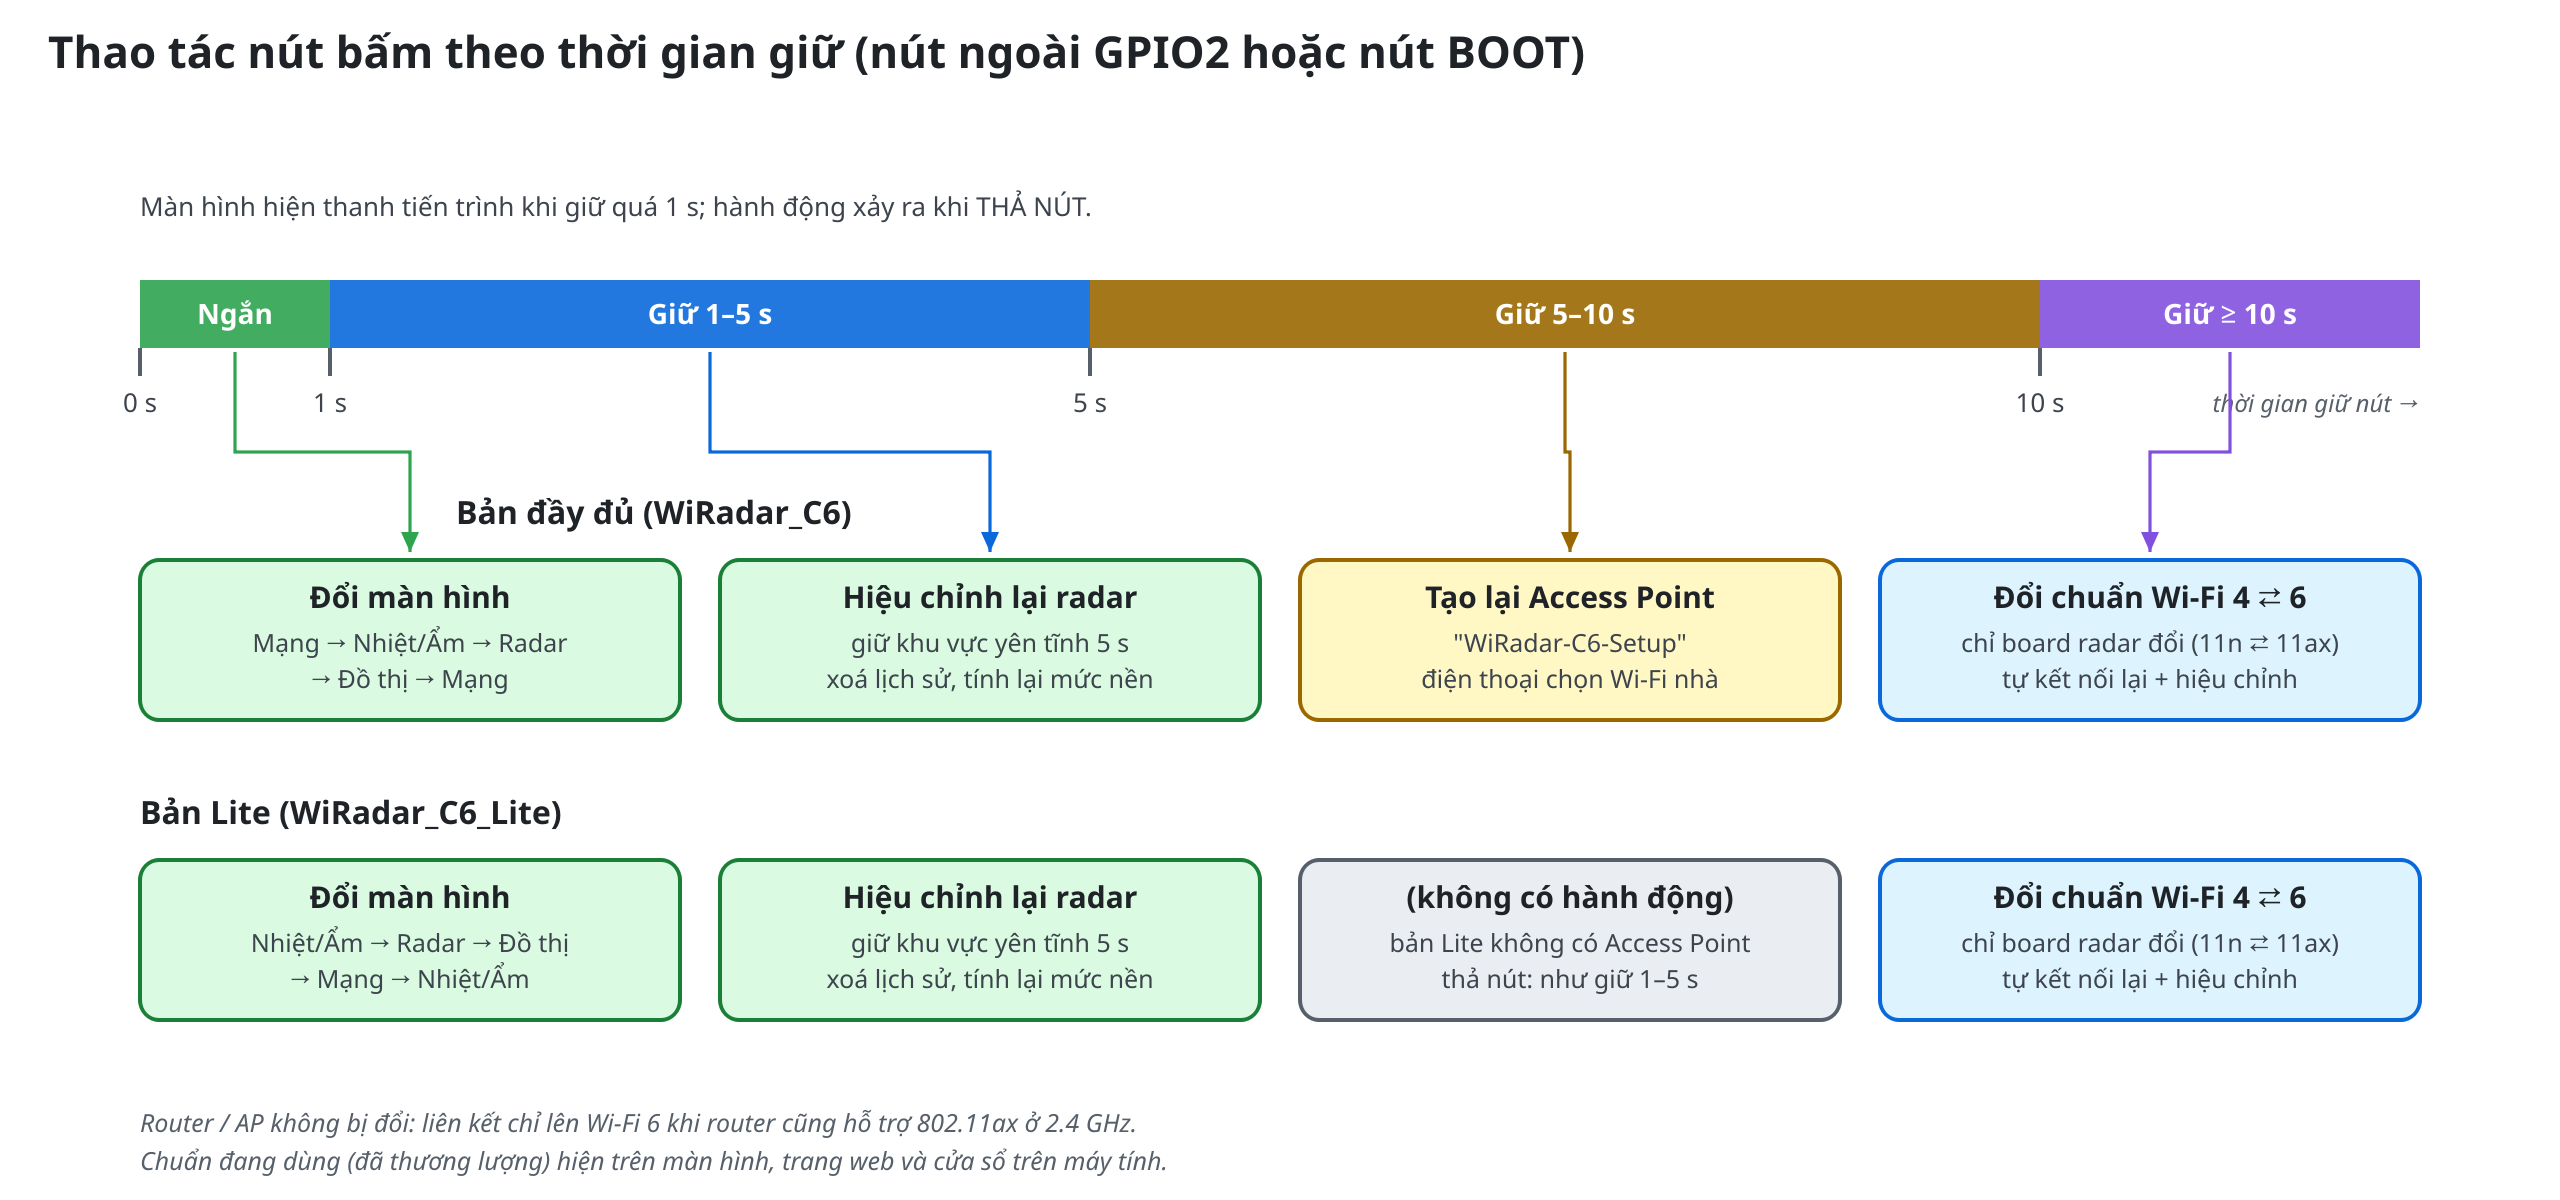
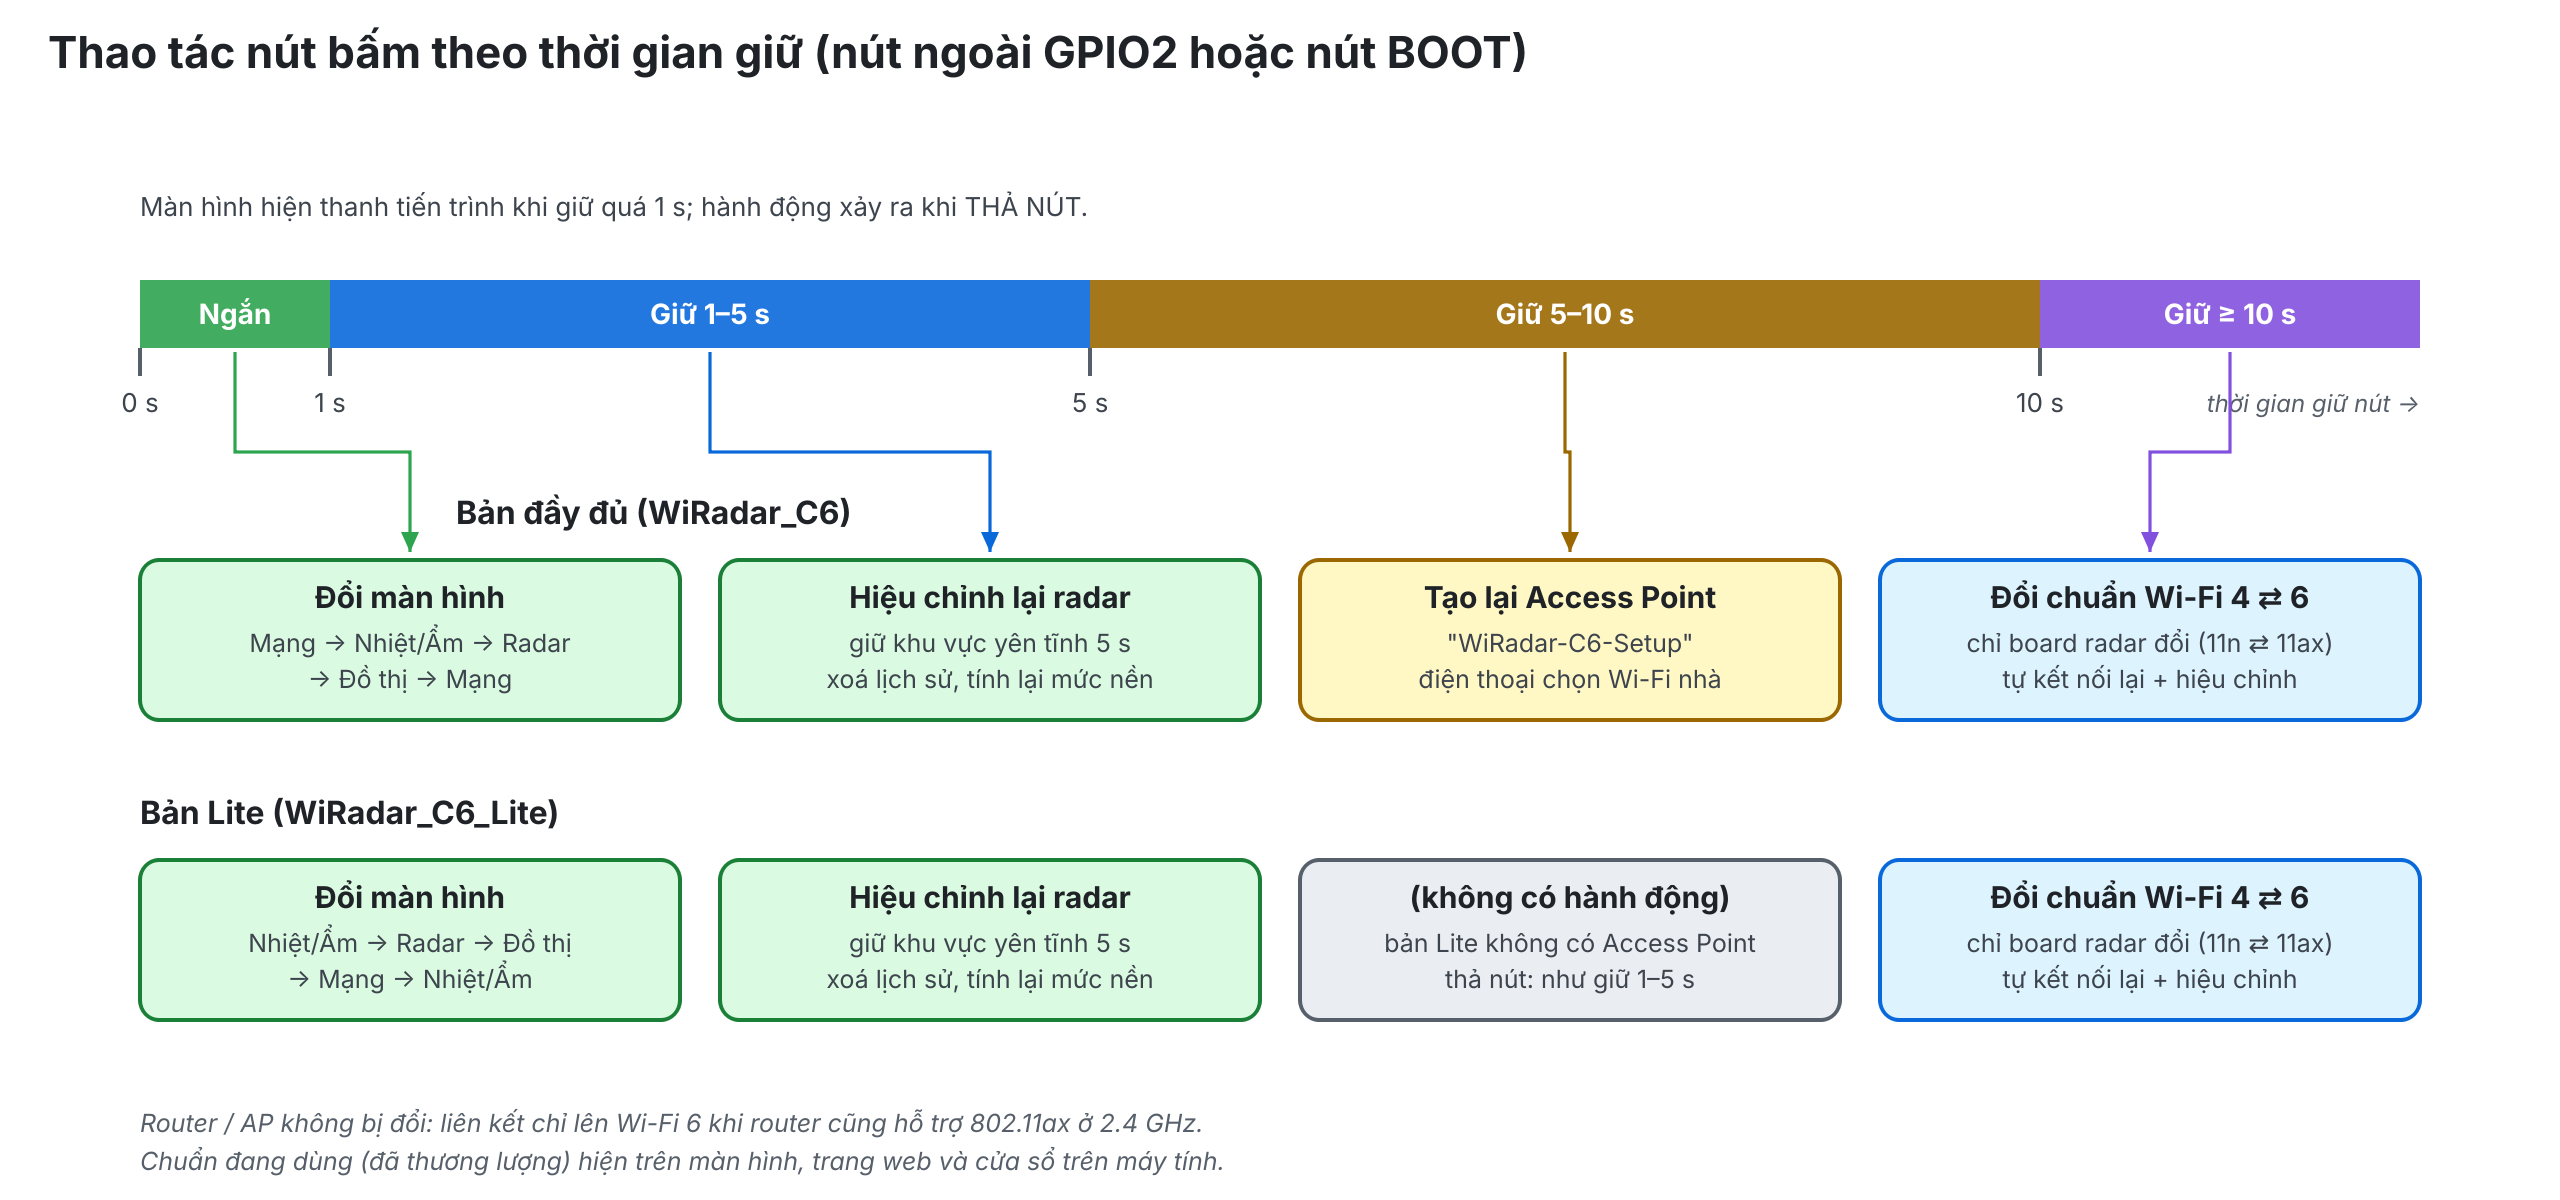
Docs: testing, roadmap (BLE/Zigbee), architecture modules, regenerated diagrams
Claude-Session: https://claude.ai/code/session_012YfPKC4wyMSFMbkPgKDus9

diff --git a/docs/make_diagrams.py b/docs/make_diagrams.py
@@ -91,7 +91,7 @@ def system_full():
     d.box(295, 350, 290, 110, 'Wi-Fi 802.11 + CSI', ['STA (vào router) hoặc SoftAP', 'chế độ Wi-Fi 4 (11n) / Wi-Fi 6 (11ax)', 'callback CSI (cả khung HE): biên độ, RSSI'], 'wifi')
     d.box(295, 510, 290, 170, 'Xử lý CSI → mức chuyển động', ['chuẩn hoá biên độ mỗi gói', 'so với nền thích nghi chậm', 'làm mượt → mức chuyển động', 'hiệu chỉnh 5 s · ngưỡng + trễ', 'lịch sử 30 s'], 'proc')
     d.box(745, 90, 290, 110, 'Giao diện TFT (128×128)', ['4 màn: Mạng · Nhiệt độ/Ẩm', 'Radar · Đồ thị 30 s', 'vẽ vào bộ đệm rồi đẩy SPI'], 'ui')
-    d.box(745, 350, 290, 130, 'Quản lý mạng', ['NVS lưu Wi-Fi nhà (SSID, mật khẩu)', 'AP "WiRadar-C6-Setup" (WPA2)', 'DHCP · DNS captive portal', 'mDNS: wiradar.local'], 'net')
+    d.box(745, 350, 290, 130, 'Quản lý mạng', ['NVS lưu Wi-Fi nhà (SSID, mật khẩu)', 'AP "WiRadar-C6-Setup" (WPA2, mật khẩu ngẫu nhiên)', 'DHCP · DNS captive portal', 'mDNS: wiradar.local'], 'net')
     d.box(745, 520, 290, 140, 'Web server HTTP :80', ['/  bảng điều khiển · /setup  cấu hình Wi-Fi', '/api/state  (JSON 150 ms/lần)', '/api/scan · save · recal · forget', 'tab: Radar · Đồ thị · Nhiệt/Ẩm · Wi-Fi'], 'net')
     d.box(745, 700, 290, 100, 'Serial USB (UART 921600)', ['STATE: 10 dòng/s (chuyển động + chuẩn Wi-Fi)', 'CSI thô: "C" · đổi chế độ: "4" / "6"'], 'ser')
     d.box(1100, 95, 215, 100, 'Màn hình TFT ST7735', ['1.44" · SPI', 'SCK6 MOSI7 CS18 DC19 RST20'], 'ext')

diff --git a/README.md b/README.md
@@ -26,7 +26,7 @@ tích hợp đo nhiệt độ - độ ẩm (DHT11), hiển thị trên màn hìn
 ## Cấu trúc thư mục
 | Thư mục | Nội dung |
 |---|---|
-| `firmware/WiRadar_C6/` | **Firmware đầy đủ** (Arduino): AP cấu hình, web điện thoại, TFT, nút bấm, radar, xuất dữ liệu qua USB |
+| `firmware/WiRadar_C6/` | **Firmware đầy đủ** (Arduino): AP cấu hình, web điện thoại, TFT, nút bấm, radar, xuất dữ liệu qua USB. Chia module: `csi_math.h` (toán CSI, có test), `csi_core.h` (bắt CSI, hiệu chỉnh, phát hiện), `wifi_mode.h`, `tft_ui.h`, `climate.h`, `config.h` (chân và ngưỡng) |
 | `firmware/WiRadar_C6_Lite/` | **Bản Lite, chỉ phần cứng** (không web, không AP): TFT + DHT11 + nút, nối thẳng vào router |
 | `scripts/flash.sh` | Biên dịch / nạp firmware bằng arduino-cli |
 | `scripts/sync_shared.py` | Chép các header dùng chung (`config.h`, `csi_core.h`, `wifi_mode.h`, `tft_ui.h`) từ bản đầy đủ sang bản Lite; sửa ở `firmware/WiRadar_C6/` rồi chạy lại |
@@ -35,11 +35,13 @@ tích hợp đo nhiệt độ - độ ẩm (DHT11), hiển thị trên màn hìn
 | `demo/preview.html` | Xem trước giao diện màn hình 128x128 khi chưa có phần cứng |
 | `case/` | Hộp in 3D **nằm ngang, lắp bằng khe** (`make_case.py`, STL, miếng thử, xem 3D `viewer.html`) |
 | `docs/WIRING.md` | Sơ đồ nối dây |
+| `docs/TESTING.md`, `docs/ROADMAP.md` | Kiểm thử (CI + việc cần đo trên board) và lộ trình BLE / Zigbee |
+| `tests/` | Test toán CSI trên máy tính (`g++`), chạy trong CI |
 | `docs/ARCHITECTURE.md` | **Sơ đồ hệ thống** (bản đầy đủ, bản Lite, thao tác nút) và các giao thức dùng |
 
 ## Nạp firmware (Arduino IDE hoặc arduino-cli)
 1. Cài core **esp32 by Espressif Systems 3.x trở lên** (có hỗ trợ ESP32-C6).
-2. Cài thư viện: *Adafruit GFX*, *Adafruit ST7735 and ST7789*, *DHT sensor library*, *Adafruit Unified Sensor*.
+2. Cài thư viện (CI biên dịch được với core esp32 4.0.0): *Adafruit GFX*, *Adafruit ST7735 and ST7789*, *DHT sensor library*, *Adafruit Unified Sensor*.
 3. Mở `firmware/WiRadar_C6/WiRadar_C6.ino`. Chọn board **ESP32C6 Dev Module**, *Flash Size 16MB*, *USB CDC On Boot: Disabled*.
 4. Upload (hoặc dùng `./scripts/flash.sh upload`; bản Lite: `./scripts/flash.sh lite upload`). Lần đầu board mở AP `WiRadar-C6-Setup` (xem Serial **921600** hoặc màn hình để biết IP). Mở cổng serial có thể làm board tự khởi động lại; đó là bình thường.
 

diff --git a/docs/ARCHITECTURE.md b/docs/ARCHITECTURE.md
@@ -1,6 +1,6 @@
 # Sơ đồ hệ thống WiRadar-C6
 
-Các sơ đồ dưới đây được sinh bằng `docs/make_diagrams.py` (chạy lại: `cd docs && ../csi-venv/bin/python make_diagrams.py`).
+Các sơ đồ dưới đây được sinh bằng `docs/make_diagrams.py` (chạy lại: `cd docs && ../csi-venv/bin/python make_diagrams.py`; cần `pip install -r viewer/requirements.txt -r viewer/requirements-tools.txt`).
 Có hai định dạng: **SVG** (vector, chèn vào báo cáo không bị vỡ) và **PNG** (độ phân giải gấp đôi) trong `docs/diagrams/`.
 Mở `docs/diagrams.html` bằng trình duyệt để xem cả ba.
 
@@ -18,6 +18,21 @@ Giống bản đầy đủ nhưng **không có Access Point, DNS, mDNS và web s
 ![Thao tác nút bấm](diagrams/button_flow.png)
 
 Mọi thao tác xảy ra khi **thả nút**, màn hình hiện thanh tiến trình và việc sẽ làm. Mốc ≥ 10 s đổi chế độ liên kết **Wi-Fi 4 (802.11n) ⇄ Wi-Fi 6 (802.11ax)** của board radar; router/AP không bị đổi. Chế độ cũng đổi được từ máy tính (phím `4` / `6` trong cửa sổ radar, hoặc `--wifi 4|6`) và từ trang web.
+
+## Cấu trúc mã firmware
+| Module | Vai trò | Dùng ở |
+|---|---|---|
+| `config.h` | chân GPIO, ngưỡng radar | cả hai |
+| `csi_math.h` | biên độ, chuẩn hoá, đường nền, trung vị: **số nguyên** (C6 không có FPU), không phụ thuộc Arduino nên test được trên PC | cả hai |
+| `csi_core.h` | callback CSI, ping, hiệu chỉnh (trung vị 5 s), phát hiện có trễ, sàn thích nghi chậm, lịch sử 30 s (bộ đệm vòng) | cả hai |
+| `wifi_mode.h` | chọn Wi-Fi 4 / 6, đọc chuẩn đang dùng | cả hai |
+| `tft_ui.h` | các màn Nhiệt/Ẩm, Radar, Đồ thị, gương màn hình, màn chào | cả hai |
+| `climate.h` | DHT11 đọc trong task riêng | cả hai |
+| `WiRadar_C6.ino` | AP cấu hình, DNS, mDNS, web, nút (có mốc 5 s tạo AP) | bản đầy đủ |
+| `WiRadar_C6_Lite.ino` | chỉ nối router, màn Mạng, nút | bản Lite |
+
+Bản Lite dùng **bản chép** của các header dùng chung (Arduino chỉ thấy file trong thư mục sketch). Sửa ở `firmware/WiRadar_C6/`
+rồi chạy `python3 scripts/sync_shared.py`; CI báo lỗi nếu quên.
 
 ## Chế độ Wi-Fi 4 / Wi-Fi 6
 - **Board khai báo** khả năng của mình khi kết nối: Wi-Fi 4 = 11b/g/n, Wi-Fi 6 = 11b/g/n/ax. Liên kết chỉ lên 802.11ax khi **router/AP cũng hỗ trợ**.

diff --git a/docs/TESTING.md b/docs/TESTING.md
@@ -1,0 +1,27 @@
+# Kiểm thử
+
+## Tự động (CI, GitHub Actions: `.github/workflows/ci.yml`)
+| Job | Kiểm tra gì |
+|---|---|
+| `firmware (WiRadar_C6)`, `firmware (WiRadar_C6_Lite)` | Biên dịch cả hai sketch bằng arduino-cli (core esp32, ESP32-C6, flash 16 MB) |
+| `consistency` | Các header dùng chung ở bản Lite khớp bản đầy đủ (`python3 scripts/sync_shared.py --check`) |
+| `host-tests` | Test phần toán CSI trên máy tính (`tests/test_csi_math.cpp`) |
+| `python` | Các script Python biên dịch được |
+
+Chạy test toán CSI ở máy bạn:
+```bash
+g++ -O2 -std=c++17 -Wall -Wextra -o /tmp/test_csi_math tests/test_csi_math.cpp && /tmp/test_csi_math
+```
+Test so sánh đường tính **số nguyên** (chạy trên board) với đường tính **float** gốc trên khung CSI **tổng hợp**
+(kênh tĩnh + nhiễu + vật chuyển động), kiểm tra: sàn nhiễu lệch dưới 10 %, mọi quyết định phát hiện trùng nhau,
+các trường hợp biên (gói toàn 0, -128, một sóng mang quá lớn), trung vị và giới hạn trôi của sàn.
+
+> Dữ liệu tổng hợp chỉ chứng minh hai cách tính cho kết quả như nhau. **Nó không thay cho đo thật trên board.**
+
+## Việc cần làm trên phần cứng (chưa làm được trong CI)
+1. Nạp firmware, để board ở nơi trống 5 giây hiệu chỉnh, kiểm tra radar hiện "Area clear".
+2. Đi ngang giữa board và router: phải báo `MOTION`; đứng yên một lúc: về "clear".
+3. So `pps` (gói/giây) và `ratio` trước/sau thay đổi này (xem dòng `STATE` hoặc màn Đồ thị).
+4. Thu bộ dữ liệu có nhãn để chỉnh ngưỡng: `./scripts/radar.sh -r data/lan1.csv` (ghi CSI_DATA thô; bật luồng thô bằng
+   `./scripts/raw.sh`), ghi lại giờ bắt đầu/kết thúc mỗi lần đi qua, rồi chạy lại thuật toán trên file đó.
+5. Khi thêm BLE hoặc Zigbee: ghi `pps` và độ nhiễu của `floorMotion` khi tắt/bật từng giao thức (5 phút mỗi trường hợp).

diff --git a/docs/ROADMAP.md b/docs/ROADMAP.md
@@ -1,0 +1,23 @@
+# Lộ trình: BLE và Zigbee trên ESP32-C6
+
+ESP32-C6 có Wi-Fi 6, BLE 5 và 802.15.4 (Zigbee/Thread) nhưng **dùng chung một bộ thu phát 2.4 GHz**. Radar CSI cần
+luồng gói đều (100 gói/giây), nên mỗi giao thức thêm vào có thể làm `pps` dao động và radar nhiễu hơn.
+**Quy tắc: đo `pps` và `floorMotion` trước khi quyết định chạy đồng thời.**
+
+## Giai đoạn 1: BLE (rủi ro thấp)
+- Cấu hình Wi-Fi qua BLE (NimBLE) thay cho AP + captive portal.
+- GATT notify: mức chuyển động, nhiệt độ, độ ẩm, chuẩn Wi-Fi, xem bằng Web Bluetooth hoặc ứng dụng GATT.
+- Tuỳ chọn: quét RSSI của điện thoại để kết hợp với CSI.
+
+## Giai đoạn 2: Zigbee (cần kiểm chứng)
+- WiRadar là **Router** (cắm điện liên tục), cần một **Coordinator** riêng: ESP32-H2 (rẻ, không có Wi-Fi nên không ảnh hưởng CSI)
+  hoặc ESP32-C6 thứ hai, hoặc dongle Zigbee + Home Assistant.
+- Cluster đề xuất: Occupancy Sensing (0x0406), Temperature (0x0402), Relative Humidity (0x0405).
+- **Chưa kiểm chứng:** thư viện Zigbee của Arduino-ESP32 chạy đồng thời với Wi-Fi + CSI. Thử bằng sketch riêng trước;
+  nếu không ổn thì dùng chế độ luân phiên (đổi bằng nút).
+
+## Điều kiện trước khi bắt đầu
+- Cấu trúc đã tách module (`csi_core.h`, `wifi_mode.h`, `tft_ui.h`, `climate.h`); giao thức mới thêm thành module riêng
+  (`ble_service.h`, `zigbee_node.h`) và thêm vào `scripts/sync_shared.py` nếu bản Lite cũng dùng.
+- Phân vùng flash: `scripts/flash.sh` dùng `app3M_fat9M_16MB` (app 3 MB). Zigbee có thể cần phân vùng riêng.
+- Đo cơ sở (chưa có BLE/Zigbee) ghi ở `docs/TESTING.md`, mục "Việc cần làm trên phần cứng".

diff --git a/case/README.md b/case/README.md
@@ -1,7 +1,7 @@
 # Hộp WiRadar-C6 nằm ngang (lắp bằng khe, không dán)
 
 Kích thước ngoài: **112.7 × 42.4 × 36.4 mm** (rộng × cao × sâu). Xem 3D: mở `case/viewer.html`.
-Sinh lại: sửa số trong `PARAMS` của `make_case.py` rồi chạy `../csi-venv/bin/python make_case.py` (trong thư mục `case/`).
+Sinh lại: sửa số trong `PARAMS` của `make_case.py` rồi chạy `../csi-venv/bin/python make_case.py` (trong thư mục `case/`; cần `pip install -r ../viewer/requirements-tools.txt`).
 
 Nhìn vào mặt trước (mặt có màn hình):
 ```
